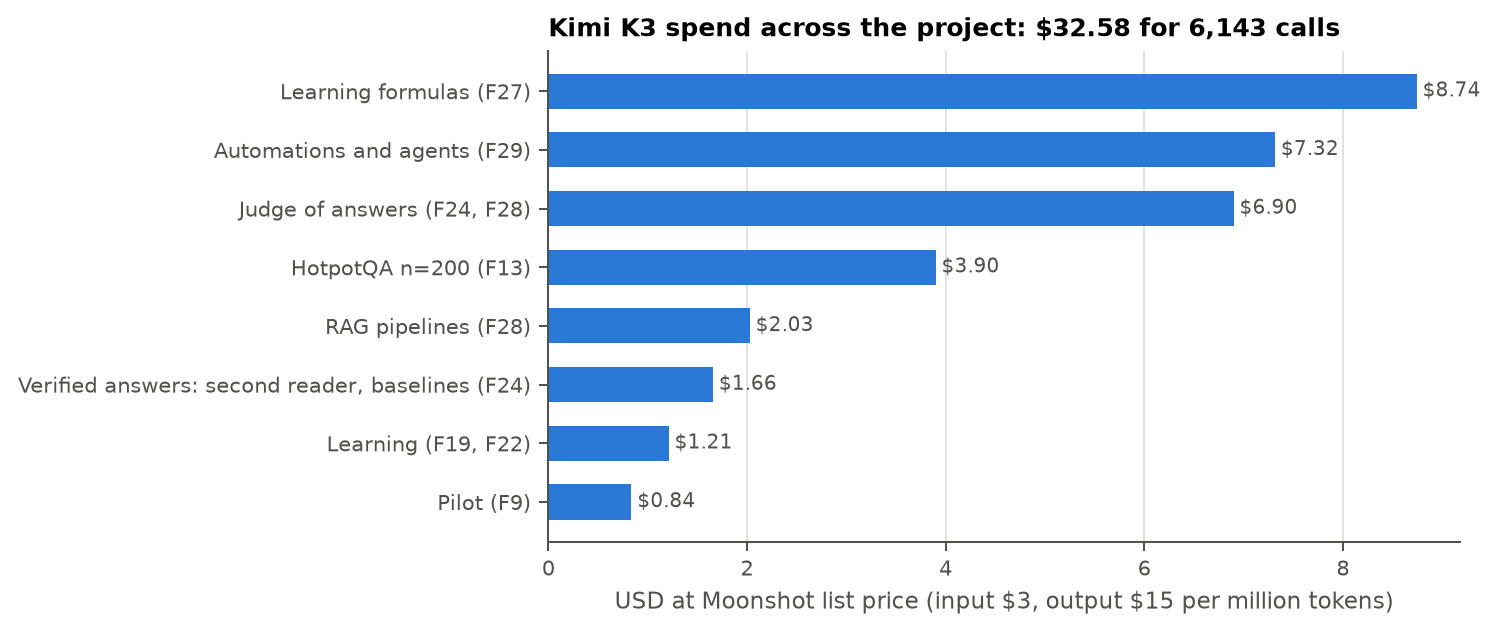
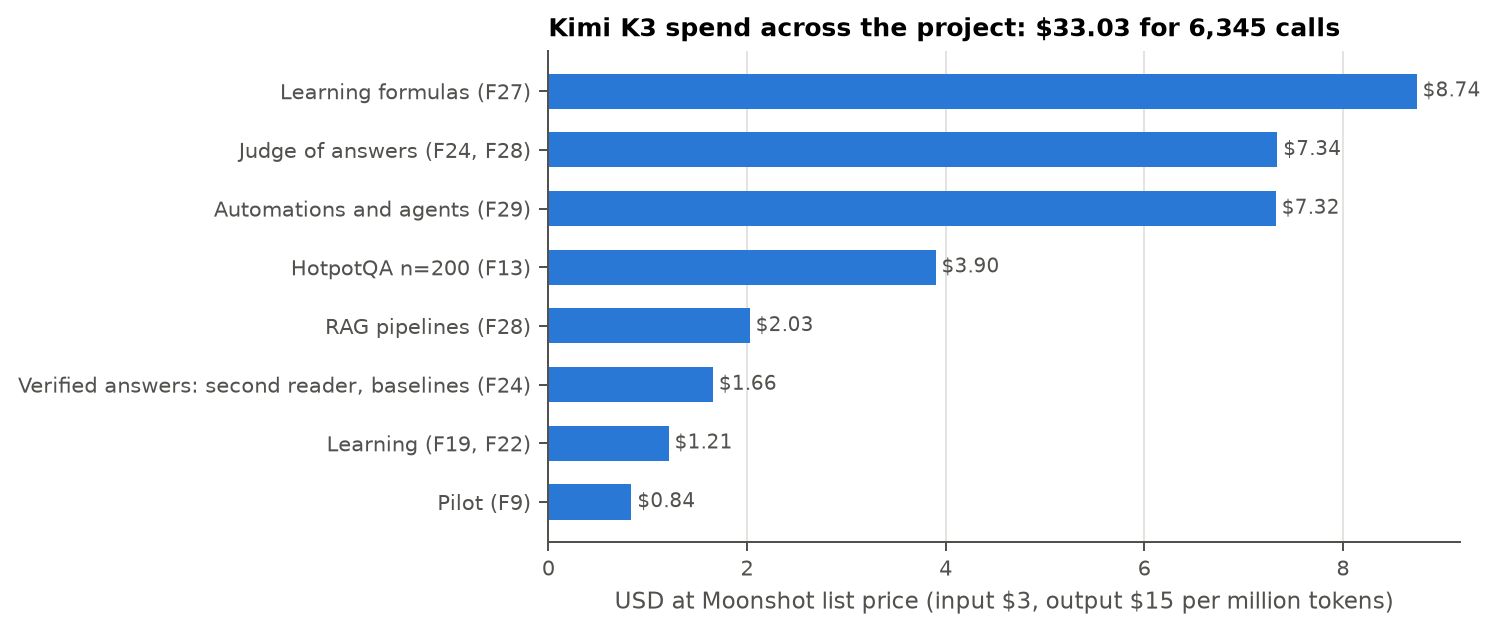
Kimi costs recomputed: $33.03 for 6,345 calls (judging $7.34)

diff --git a/docs/FINDINGS.md b/docs/FINDINGS.md
@@ -921,7 +921,7 @@ Facts stop improving at about 1.5B (every class from 1.5B averages 75–77% with
 
 Source: `results/costs/kimi_costs.json` (`python scripts/kimi_costs.py`: every Kimi call the project made, from the logged token counts, at Moonshot's list price: kimi-k3 $3 input, $15 output per million tokens; output includes reasoning tokens; cached-input discounts not applied, so these are upper bounds); figures `report/kimi_costs.png`, `report/cost_compare.png`.
 
-- **Total so far: $32.58 for 6,143 calls** (3.1 M input, 1.6 M output tokens). Largest items: learning formulas $8.74 (every correction round, incl. two stopped runs), the automations $7.32 (of which $4.46 was context stuffing on 50 news questions), judging answers $6.90.
+- **Total so far: $33.03 for 6,345 calls** (3.1 M input, 1.6 M output tokens). Largest items: learning formulas $8.74 (every correction round, incl. two stopped runs), the automations $7.32 (of which $4.46 was context stuffing on 50 news questions), judging answers $7.34.
 - **Per 1,000 answers with Kimi K3:** desk: alone $3.80, stuffing $4.04, RAG $2.68, CAMR $2.62; news: alone $14.74, stuffing $89.20, RAG $3.31, CAMR $1.98; agent: no memory $3.62, RAG $5.84, CAMR $6.85 (more tool calls per task); RAG benchmark: reranked $3.33, corrective $2.99, CAMR $1.01.
 - **CAMR was the cheapest way to make the cloud model useful in every scenario but the agent**, because it sends the fewest prompt tokens and, for labelled facts, often none; stuffing was the most expensive, up to 45 times CAMR on the news. Most of every bill is output, and Kimi K3 bills its reasoning as output.
 - Local models cost nothing per answer; their price is CPU time. With CAMR the 3B model's desk answers took about 2 s of model time against 32-37 s with RAG or stuffing (prompts 2-4 times longer; these runs shared the CPU, so the ratio, not the seconds, is the result).
